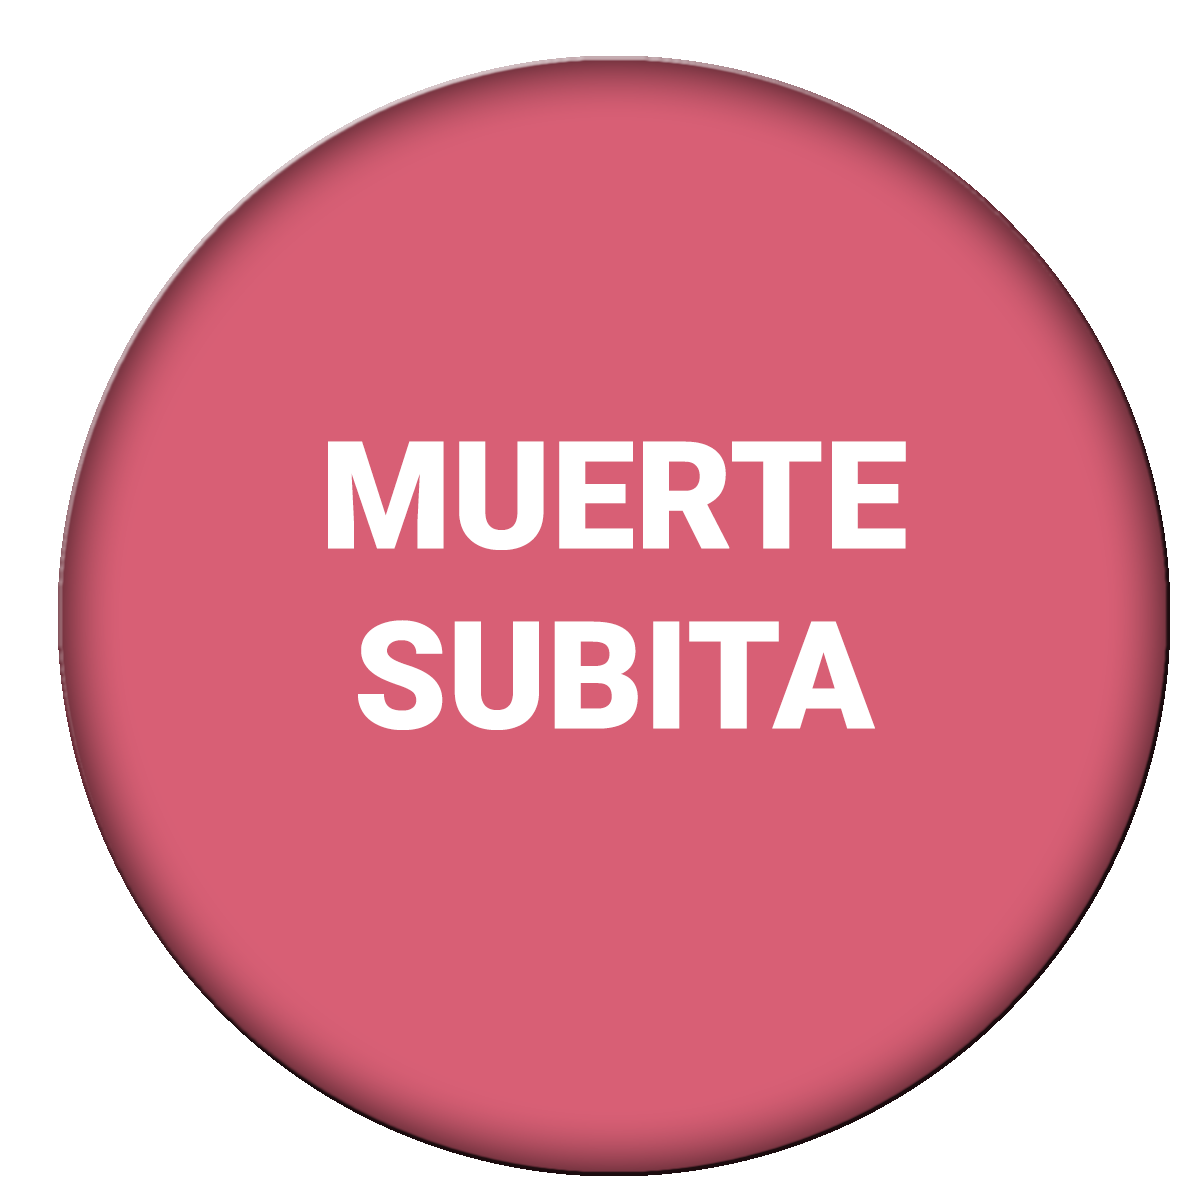
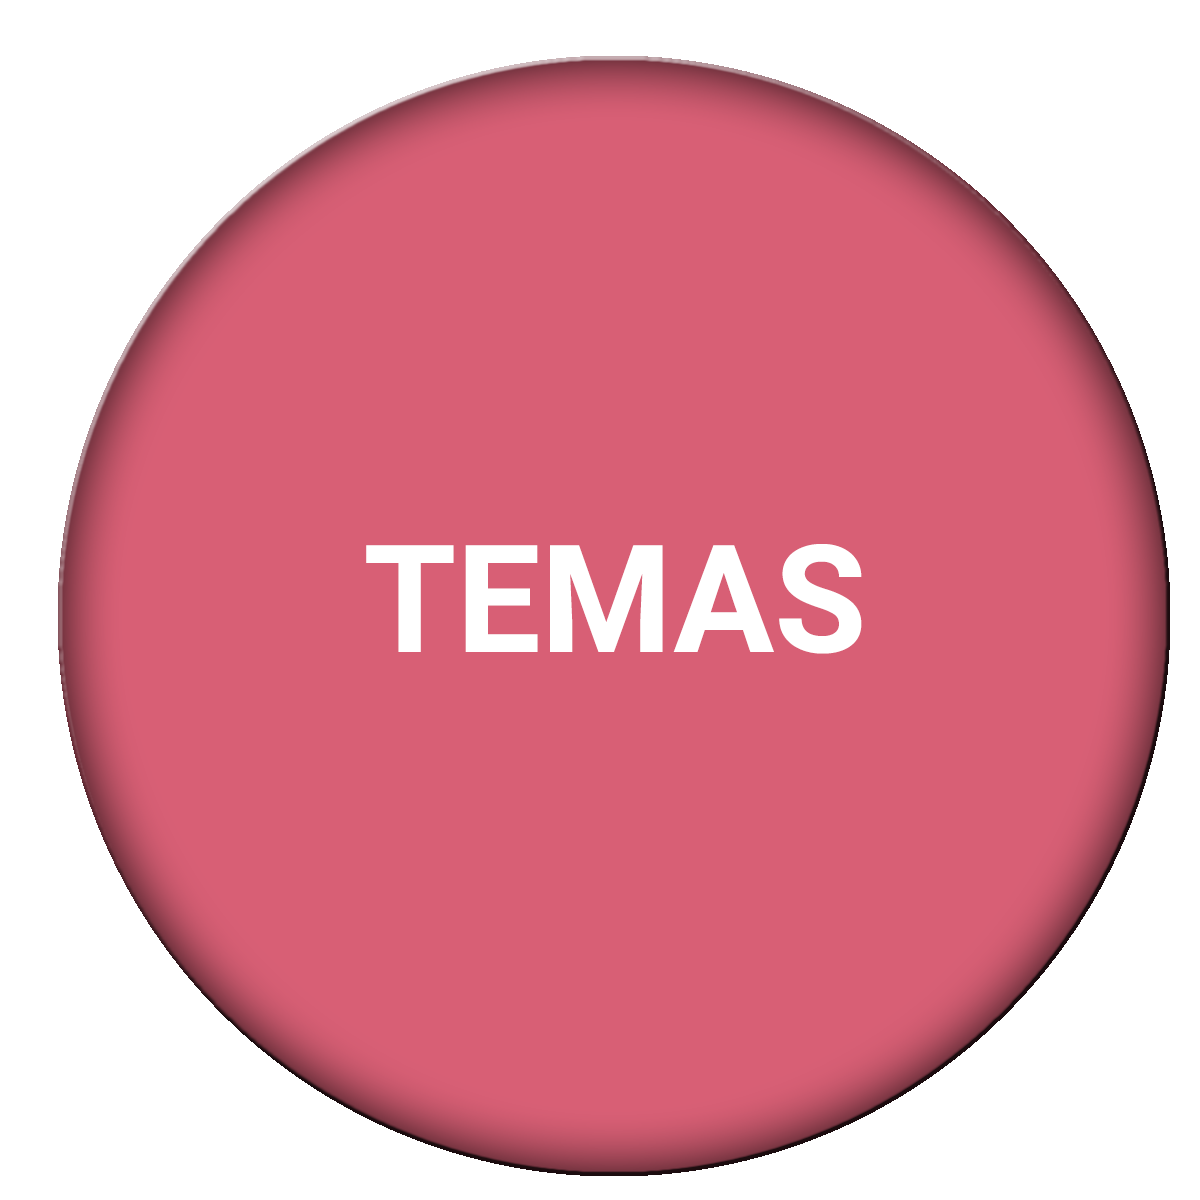
Cambios en algunas IMGS,HEAD y al FOOTER en la pagina de inicio

Changed region(s): [[0.2467, 0.37, 0.7708, 0.6167]]

diff --git a/css/style.css b/css/style.css
@@ -102,7 +102,7 @@ body {
     color: #A0D8C8;
     
 }
-/* --------------FAQ----------------- */
+/* --------------FAQ MAURI----------------- */
 
 .FAQ--grilla{
     display: grid;
@@ -190,10 +190,27 @@ body {
     margin: 0 auto;
     padding: 0.5em;
 }
+/*-------HOME MAURI-------*/
+.HOME--titulo{
+    margin-top: 2em;
+}
+.HOME--titulo h2{
+    color: white;
+    font-size: 3em;
+}
 
-
-
-
+.HOME--juegos ul li{
+    list-style-type: none;
+    display: inline;
+}
+.HOME--juegos ul li img{
+    width: 25%;
+    margin: 2em 1em;
+}
+.HOME--footer{
+    background: rgba(0, 0, 0, 0.4);
+    padding: 0.5em;
+}
 
 @media (max-width: 768px){
 

diff --git a/home.php b/home.php
@@ -1,2 +1,33 @@
 <?php $titulo = "Home";
 require_once 'head.php'; ?>
+<body>
+    <section class="container">
+        <header class="HOME--encabezado">
+            <?php require_once 'nav.php';?>
+        </header>
+
+        <article class = HOME--titulo>
+            <h2>Pon a prueba tus conocimientos.</h2>
+            <p><img src="img\Iconos y cosas varias\DUBIUM.png" alt="Logo de Dubium"></p>    
+        </article>
+
+        <article class="HOME--juegos">
+            <ul>
+                <li>
+                    <a href="#"> <img src="img\Iconos y cosas varias\botonTemas.png" alt="Modo de juego: Temas"> </a>
+                </li>
+                <li>
+                    <a href="#"> <img src="img\Iconos y cosas varias\botonAhorcado.png" alt="Modo de juego: Ahorcado"> </a>
+                </li>
+                <li>
+                    <a href="#"> <img src="img\Iconos y cosas varias\botonSubita.png" alt="Modo de juego: Muerte súbita"> </a>
+                </li>
+            </ul>
+        </article>
+    
+    </section>
+    <footer class = "HOME--footer">
+            <?php require_once 'footer.php'; ?>
+        </footer>
+</body>
+</html>

diff --git a/faq.php b/faq.php
@@ -15,6 +15,7 @@
             <?php 
                 include_once 'nav.php';
             ?>
+        </header>
 
         <article class="FAQ--titulo">
             <h1>PREGUNTAS <br> FRECUENTES</h1>
